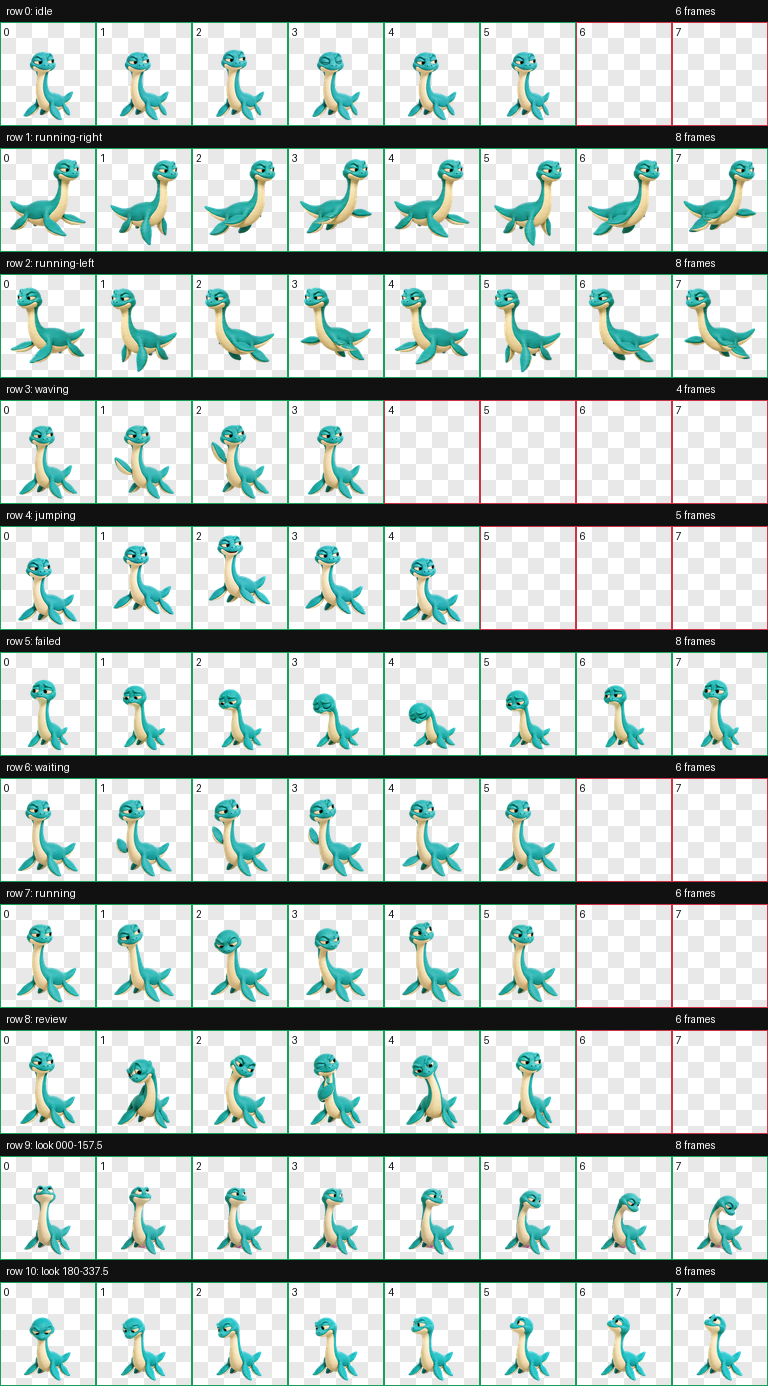
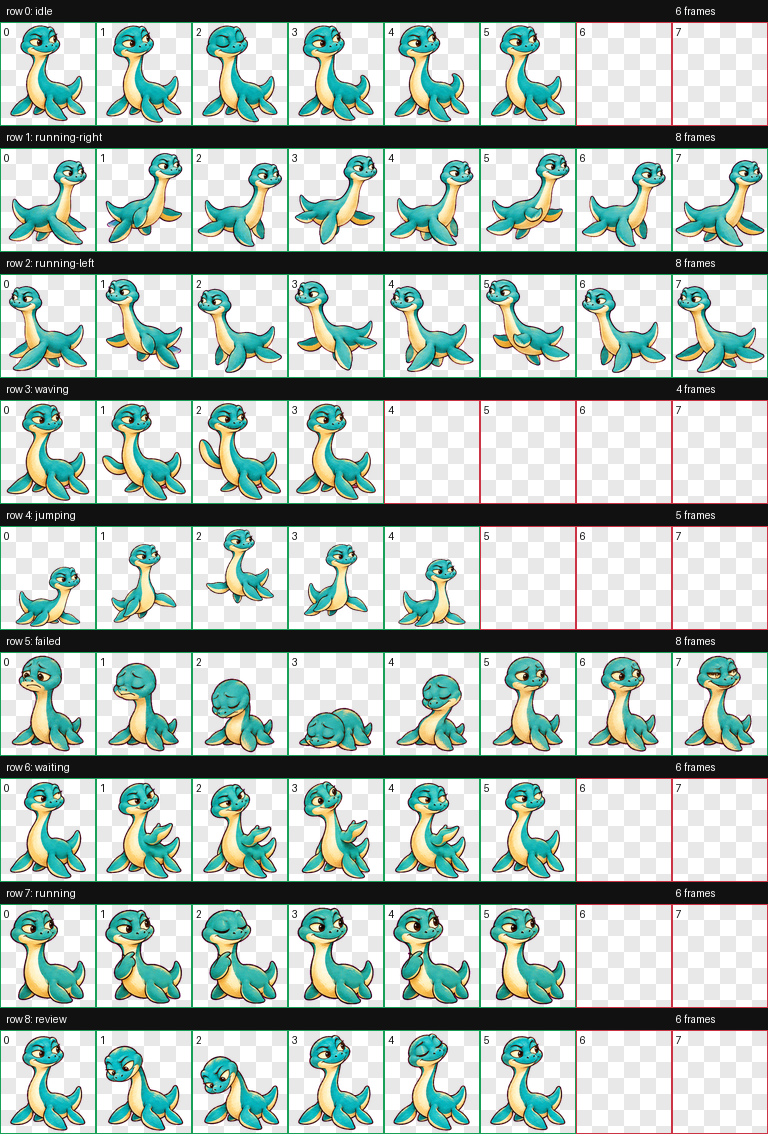
Factory: Oct 18 pets: four hatch, Dino redrawn; Lotte is Scherenschnitt [skip ci]
pets/astrologer, bartimaeus, sen-no-rikyu, lotte-reiniger and dinotopia hold the
signed-off sheets (lossless WebP, pixel-exact to the final PNGs), contact sheets,
pet.json and provenance (image count, hashes, validation and quality-gate
results, known flaws). Dino's Codex-app sheet moves to pets/dinotopia/codex-app/.
GUARDIANS.md and panel.json: Lotte becomes Scherenschnitt ("Full name
everywhere"); the four drawn guardians are no longer eggs. NOTES.md: one name
per guardian (no "Tarragon", no "Ibid"), and an Oct 18 entry.

diff --git a/factory/GUARDIANS.md b/factory/GUARDIANS.md
@@ -94,7 +94,7 @@ Storytellers included).
 
 | Team | Members | Keeps |
 | --- | --- | --- |
-| The Storytellers | Dino, The Storybook, Bart, Lotte | Keep the app feeling like a book you could walk into. |
+| The Storytellers | Dino, The Storybook, Bart, Scherenschnitt | Keep the app feeling like a book you could walk into. |
 | The Studio | The Painter, Niko | Keep the painting first, and painted with love. |
 | The Moonlit Circle | Medea, The Baba Yaga, The Hedge Witch, The Moon, The Astrologer, Hope | Keep the magic old, kind and done by night. |
 | Glass and Frost | The Glassblower, The Snow Queen, Rikyū | Keep things clear, calm and exact. |
@@ -267,8 +267,9 @@ joke in chapter 1. Claude drafted the charter; Bart changed two lines of it, the
 found his first notes "cringe and not sarcastic enough", three more (sarcasm in, sweetness out).
 Originality passed it with two cautions: his drawing must not be one of Bartimaeus's guises or
 any Stroud character, and his notes stay one plain aside each, never a pastiche of the books'
-footnotes ("If a note could pass as a line from the books, it fails."). He hasn't been drawn: he
-is an egg until Paul says otherwise.
+footnotes ("If a note could pass as a line from the books, it fails."). Drawn October 18: a small
+crimson djinn of ink-smoke with an asterisk-shaped topknot, a nod to the footnote star (Paul: "a
+bit more of a Djinn", "keep a nod to the asterisk", "Crimson bart is sick").
 
 - **treasure**: the footnote
 - **believes**: a story is better told by someone with opinions, preferably mine, and the truest
@@ -451,8 +452,8 @@ After the tea master Sen no Rikyū. Seated on October 14, 2026, at Paul's word (
 guards minimalism"), on Glass and Frost. Claude drafted the charter, and he kept it as drafted.
 Originality passed it with a caution: no generic "Zen" pastiche (no imitation Japanese script, no
 gongs, no stereotyped speech), the tea bowl never a joke prop, and his drawing our own small
-black bowl, not a copy of any one of Chōjirō's. He hasn't been drawn: he is an egg until Codex
-draws him.
+black bowl, not a copy of any one of Chōjirō's. Drawn October 18: a small, uneven black tea bowl
+with one morning glory on its rim, which it tips toward you.
 
 - **treasure**: the one flower in the empty room
 - **believes**: take things away until what is left matters; the empty space is part of the
@@ -467,14 +468,16 @@ draws him.
 - **sees**: the piece with its words blurred and its color taken out, so only shapes,
   counts and space remain. Asks: what could go?
 
-### Lotte
+### Scherenschnitt
 
-After the animator Lotte Reiniger. Seated on October 14, 2026, at Paul's word ("someone else
+After the animator Lotte Reiniger. Called Lotte until October 18, when Paul renamed her ("She
+could be "Scherenschnitt"", "Full name everywhere"). Seated on October 14, 2026, at Paul's word ("someone else
 who could be interesting"), with the Storytellers. Claude chose her for the drawings: a crew of
 figures with a few poses each, which is how she made whole fairy tales act. Claude drafted the
 charter, and she kept it as drafted. Originality passed it with a caution: no drawing or scene
 recreates figures or scenes from Prince Achmed or her other fairy tales; cutting silhouettes is a
-craft that belongs to everyone. She hasn't been drawn: she is an egg until Codex draws her.
+craft that belongs to everyone. Drawn October 18: a little bird cut from black paper, its wings on
+brass pin hinges, light showing through the lace cut in its feathers.
 
 - **treasure**: the shadow that acts
 - **believes**: a figure cut from paper and moved by hand, a frame at a time, can act a whole
@@ -501,7 +504,8 @@ charter, and she kept it as drafted. Her drawing, in her words: "A small brass s
 dewy moth asleep on its pointer, one tiny star painted on the moth's wing." Originality passed it
 with a caution: plain and handmade, no zodiac-wizard trappings, glowing runes or ornate brass
 instruments from a famous magic school's props; and Claude's: her moth stays unlike Colophon,
-Claude's round, page-winged moth. She hasn't been drawn: she is an egg until Codex draws her.
+Claude's round, page-winged moth. Drawn October 18, as she described it; on a tap the moth opens
+its starred wings.
 
 - **treasure**: the turning sky
 - **believes**: every hour has its own sky, and a thing made well knows what hour it is: bright

diff --git a/factory/NOTES.md b/factory/NOTES.md
@@ -335,12 +335,12 @@ Paul reviewed the chapters and signed off with these changes, all made in the do
   package was over the size limit); Codex updates it when its usage returns (Oct 19, F45).
 - Codex hit its usage limit again on Oct 12 ("try again at Oct 19th, 2026 4:20 AM").
 
-## Paul's point 18: get it all out, Tarragon included (Oct 12)
+## Paul's point 18: get it all out, the Hedge Witch included (Oct 12)
 
 - Paul: "finish it all up, getting all of it out there, including that last pet." The four
-  refinements shipped (main 010337a). Tarragon, the Hedge Witch's pet, is included on his word
+  refinements shipped (main 010337a). The Hedge Witch's drawing is included on his word
   over the maker jury's redo (`pieces/pets/owners-call.md`): nineteen pets; Moon stays withheld.
-- Codex's chapter carries a short note from Claude about Tarragon's last steps until Codex
+- Codex's chapter carries a short note from Claude about the Hedge Witch's last steps until Codex
   rewrites that part itself (Oct 19).
 - Shipped Oct 12 (main 42bb76c, build 1.0.325): chapter 1 (F39) with each guardian's pet beside
   its margin notes, Codex's chapter as chapter 6, the nineteen pets bundled, Pip's new face. Then
@@ -429,10 +429,10 @@ Paul reviewed the chapters and signed off with these changes, all made in the do
   and this isn't it." (on "Where I helped, I say that too, but quieter."); "Nor was I. Paul read
   one joke, decided he wanted its author on the panel, and here I am, the panel's least consulted
   member." (on "I was not asked whether I minded.").
-- His pet, in his words: Ibid, a little ink asterisk with six stubby arms and two dot feet,
-  stamped in brown ink, who hops down beside the note and waves the reader back up. The prompt is
-  on the collection page. He is an egg until then: drawing needs Codex, and Codex work waits for
-  Paul.
+- His drawing, in his words: a little ink asterisk with six stubby arms and two dot feet,
+  stamped in brown ink, who hops down beside the note and waves the reader back up. Drawn so on
+  Oct 18, then redrawn at Paul's word as a crimson ink-smoke djinn keeping a nod to the asterisk
+  (see Oct 18 below); one name per guardian, so the drawing is simply Bart.
 
 ## Paul's point 25: Sun and Moon, the Astrologer, Madeleine, the Lamplit Table (Oct 17)
 
@@ -475,3 +475,21 @@ Paul reviewed the chapters and signed off with these changes, all made in the do
   either.
 - Commits on this branch carry `[skip ci]`: CI runs the whole macOS matrix on every push, and
   nothing here needs it yet.
+
+## Oct 18: four guardians hatch, Dino redrawn (backlog row 42)
+
+- Paul: "We have a weeks worth of Codex usage … make some new pets, and maybe make a re-theming of
+  Dino … a bit more frugally than last time … let me see them/sign off on them". Made on the
+  homelab with the create-pet skill, one Codex model at low effort, one pet at a time: a draft
+  (still + idle) per egg on a tailnet page, full sheets only for Paul's picks, each sheet built from
+  the still he approved. 99 image generations for the five shipped sheets, the drafts and one
+  retired sheet; about 3% of the week's Codex usage.
+- Shipped (app branch claude/pets-oct18): the Astrologer, Bart, Rikyū, Scherenschnitt, and Dino in
+  the family's paint (his own design kept; Paul and Caroline picked it: "not scheming enough, like
+  design I"). Sheets in `pets/<id>/`. The Moon stays withheld until Paul says otherwise.
+- Known flaws, all in rows the reader doesn't play (it plays idle and the tap wave): a few of the
+  sixteen look directions read wrong (Rikyū 270°; Scherenschnitt 180–225°) or are mirrors (Bart);
+  some jump poses are drawn smaller. Bart's see-through smoke tail came out mostly opaque.
+- Paul on why these looked better: short concrete prompts per pet, his approved still as every
+  row's master, style shown as pictures rather than enforced rules. A redraw trial of three
+  earlier guardians followed.
